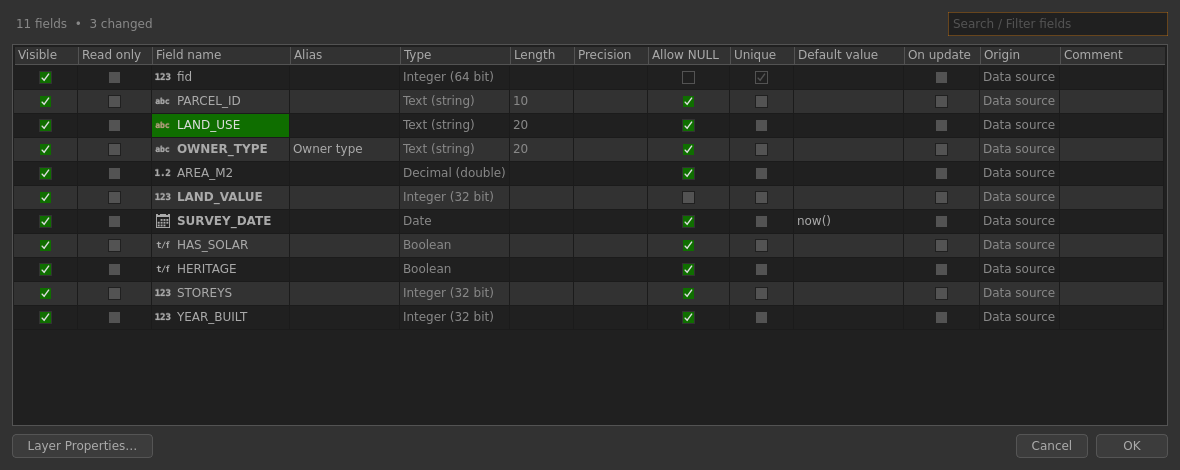
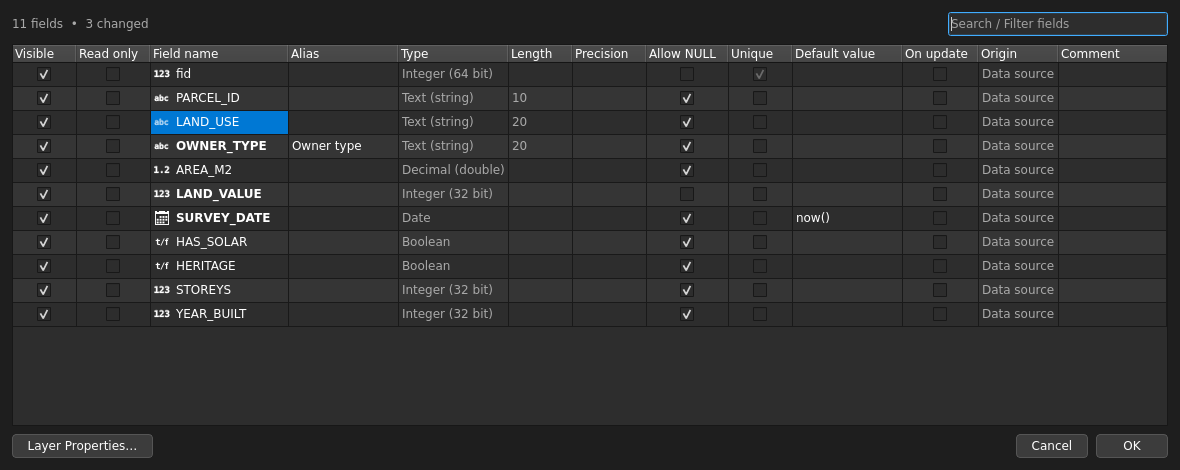
Screenshots: QGIS 4's own light and dark looks
The dark screenshots used the Night Mapping theme, which QGIS 4 no longer
uses by default. They are now taken with QGIS 4's built-in dark look: the
Fusion style with the dark palette Qt takes from Windows in dark mode
(harness.qgis4_dark; a headless run cannot ask the system). Light stays
QGIS 4's Fusion. All README screenshots retaken.

Claude-Session: https://claude.ai/code/session_01WzmTZVv7prW4LhcmkwE1Ve

diff --git a/tests/qgis/harness.py b/tests/qgis/harness.py
@@ -29,15 +29,54 @@ def plugin_package():
 
 
 def start_qgis(theme=None):
+    """*theme*: None for QGIS 4's light look (Fusion), "dark" for QGIS 4's
+    built-in dark look (Fusion with the system's dark palette), or the name
+    of a QGIS UI theme such as "Night Mapping"."""
     from qgis.core import QgsApplication
     app = QgsApplication([], True)
     app.initQgis()
     # QGIS itself registers the editor widgets at startup (forms, cell editors)
     from qgis.gui import QgsGui
     QgsGui.editorWidgetRegistry().initEditors()
-    if theme:
+    if theme == "dark":
+        qgis4_dark()
+    elif theme:
         QgsApplication.setUITheme(theme)
     return app
+
+
+def qgis4_dark():
+    """QGIS 4's own dark look: the Fusion style with the dark palette Qt
+    takes from Windows in dark mode (a headless run cannot ask the system for
+    its colour scheme): near-black windows, slightly lighter boxes, white
+    text and the Windows accent blue for selections."""
+    from qgis.PyQt.QtGui import QColor, QPalette
+    from qgis.PyQt.QtWidgets import QApplication, QStyleFactory
+    QApplication.setStyle(QStyleFactory.create("Fusion"))
+    role, group = QPalette.ColorRole, QPalette.ColorGroup
+    fg = QColor("#FFFFFF")
+    window = QColor("#1E1E1E")
+    button = window.lighter(200)                 # #3C3C3C
+    base = window.lighter(150)                   # #2D2D2D
+    accent = QColor("#0078D4")
+    pal = QPalette()
+    colours = {
+        role.WindowText: fg, role.Text: fg, role.ButtonText: fg, role.BrightText: fg,
+        role.Window: window, role.Base: base, role.AlternateBase: QColor("#353535"),
+        role.Button: button, role.Light: button.lighter(160),
+        role.Midlight: button.lighter(130), role.Mid: button.darker(130),
+        role.Dark: button.darker(160), role.Shadow: QColor("#000000"),
+        role.Highlight: accent, role.HighlightedText: fg,
+        role.ToolTipBase: button, role.ToolTipText: fg,
+        role.Link: accent.lighter(150), role.LinkVisited: accent.lighter(120),
+        role.PlaceholderText: QColor("#A0A0A0"),
+    }
+    for r, c in colours.items():
+        pal.setColor(r, c)
+    for r in (role.WindowText, role.Text, role.ButtonText):
+        pal.setColor(group.Disabled, r, QColor("#808080"))
+    pal.setColor(group.Disabled, role.Highlight, QColor("#505050"))
+    QApplication.setPalette(pal)
 
 
 def _iface_signals():

diff --git a/tests/qgis/make_screenshots.py b/tests/qgis/make_screenshots.py
@@ -4,7 +4,9 @@
 # attribution term (section 7(b)): see LICENSE and ADDITIONAL_TERMS.md.
 """Regenerate the screenshots in docs/screenshots from a made-up dataset.
 
-Run with QGIS' Python, once per theme (QT_QPA_PLATFORM=offscreen works):
+Run with QGIS 4's Python, once per look (QT_QPA_PLATFORM=offscreen works):
+light is QGIS 4's Fusion, dark its built-in dark look (Fusion with the
+system's dark palette, see harness.qgis4_dark).
 
     python tests/qgis/make_screenshots.py docs/screenshots dark
     python tests/qgis/make_screenshots.py docs/screenshots light
@@ -26,7 +28,7 @@ import harness as H  # noqa: E402
 
 OUT = os.path.abspath(sys.argv[1] if len(sys.argv) > 1 else "docs/screenshots")
 THEME = (sys.argv[2] if len(sys.argv) > 2 else "dark").lower()
-APP = H.start_qgis("Night Mapping" if THEME == "dark" else None)
+APP = H.start_qgis("dark" if THEME == "dark" else None)   # QGIS 4's own looks
 H.plugin_package()
 
 from qgis.core import (QgsFeature, QgsGeometry, QgsPointXY, QgsProject,  # noqa: E402
